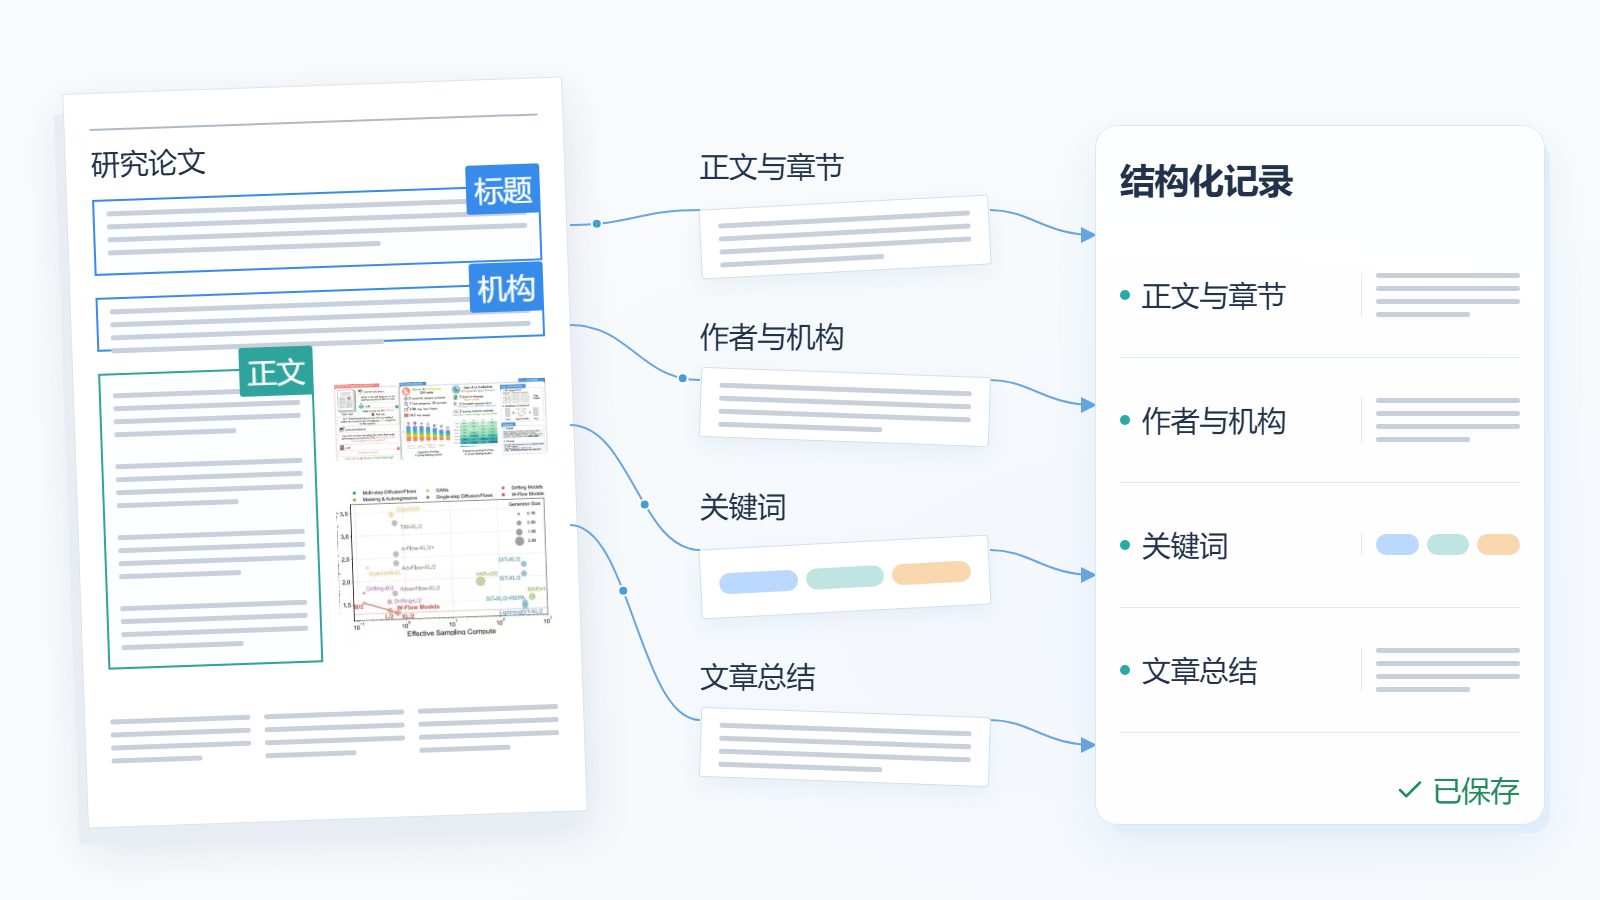
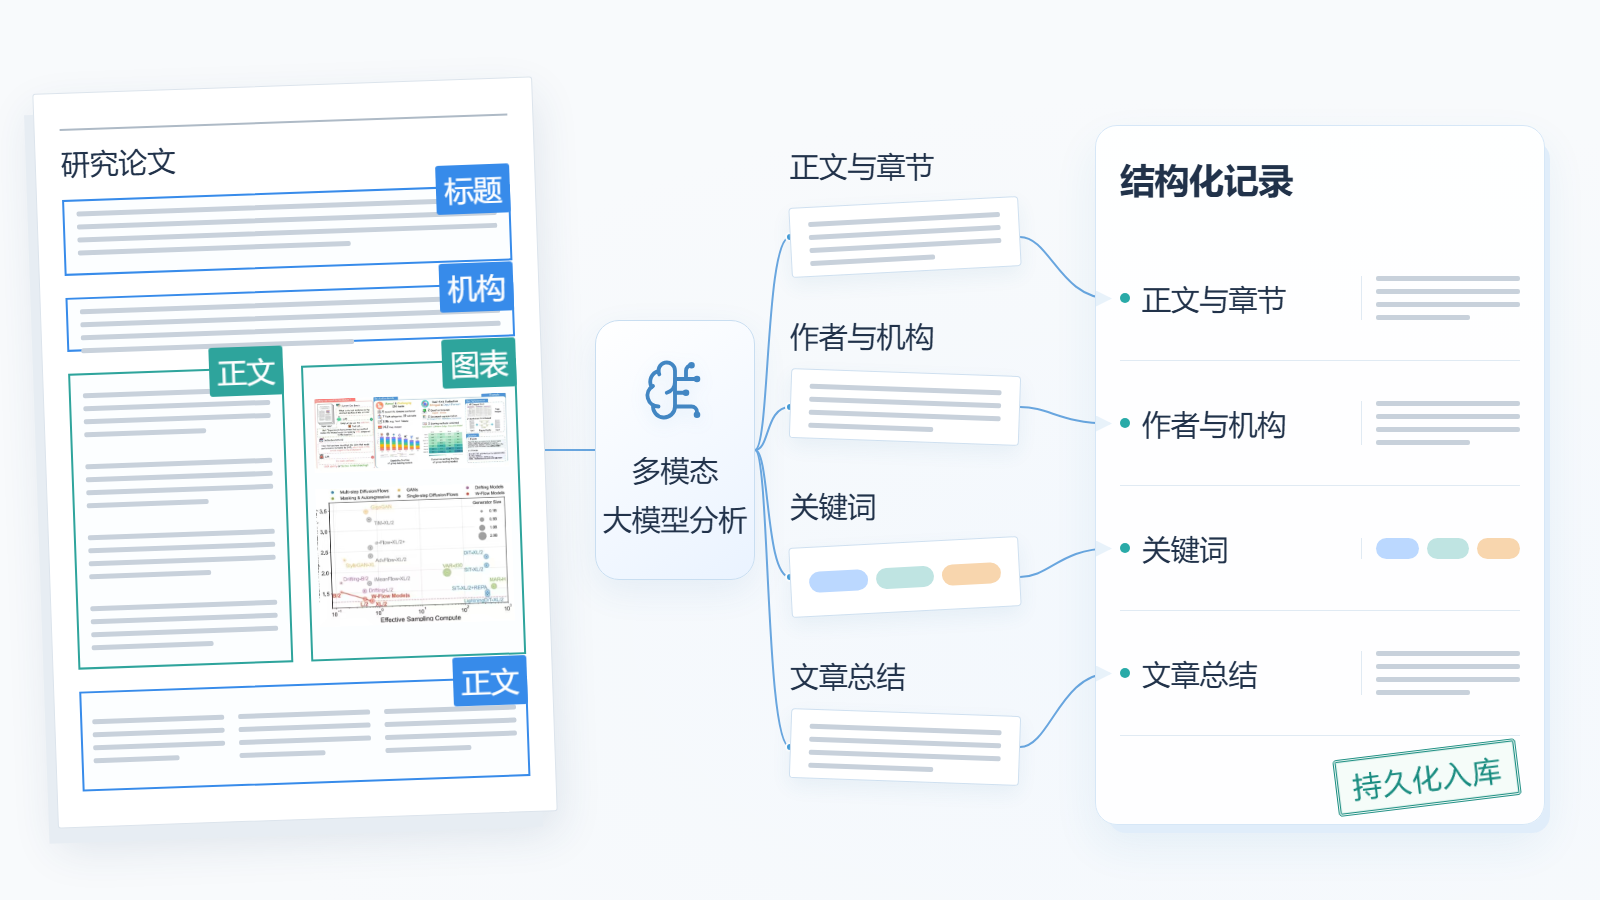
261031

diff --git a/modules/Research-Foundation/pages/PdfVisualExtractionPage/PdfVisualExtractionPage.tsx b/modules/Research-Foundation/pages/PdfVisualExtractionPage/PdfVisualExtractionPage.tsx
@@ -1,6 +1,6 @@
-import { useId } from 'react';
+import { useEffect, useId, useRef, useState, type CSSProperties } from 'react';
+import { BrainCircuit } from 'lucide-react';
 import { Typography, moduleAssetUrl } from '../../../shared/react';
-import { useResearchAnimation } from '../../components/useResearchAnimation';
 import outline from '../../outlines.json';
 import './PdfVisualExtractionPage.css';
 const crops=[
@@ -19,18 +19,32 @@ export function Lines(){return <div className="rf-pve-lines" aria-hidden="true">
 const fields=['正文与章节','作者与机构','关键词','文章总结'];
 /** Local explanatory animation; no OCR or database request is made. */
 export function PdfVisualExtractionPage({onComplete}:{onComplete?:()=>void}){
- const {elapsed,root}=useResearchAnimation(13000,onComplete);
- const phase=elapsed<2600?0:elapsed<5800?1:elapsed<9200?2:3;
- return <section ref={root} className={`rf-page rf-pve rf-pve-video phase-${phase}`} data-phase={phase} aria-label="论文信息识别与结构化保存动画">
+ const [phase,setPhase]=useState(0),locked=useRef(false),timer=useRef<number|undefined>(undefined);
+ const [delays]=useState(()=>{
+  const order=[0,1,2,3,4];
+  for(let i=order.length-1;i>0;i--){const j=Math.floor(Math.random()*(i+1));[order[i],order[j]]=[order[j],order[i]]}
+  return order.map(n=>n*140);
+ });
+ useEffect(()=>()=>window.clearTimeout(timer.current),[]);
+ function advance(){
+  if(locked.current)return;
+  if(phase===5){onComplete?.();return}
+  locked.current=true;
+  setPhase(phase+1);
+  timer.current=window.setTimeout(()=>{locked.current=false},phase===3?1700:850);
+ }
+ const boxStyle=(i:number)=>({'--rf-box-delay':`${delays[i]}ms`} as CSSProperties);
+ return <section className={`rf-page rf-pve rf-pve-video phase-${phase} ${phase>=1?'boxes-on':''}`} data-phase={phase} onClick={event=>{if(event.button===0){event.stopPropagation();advance()}}} aria-label="左键逐步演示论文识别、模型分析和持久化入库">
   <div className="rf-pve-document">
    <Typography variant="body" className="rf-pve-paper-name">研究论文</Typography>
-   <div className="rf-pve-region title"><Lines/><Typography as="span" variant="body">标题</Typography></div>
-   <div className="rf-pve-region author"><Lines/><Typography as="span" variant="body">机构</Typography></div>
-   <div className="rf-pve-paper-columns"><div className="rf-pve-region text"><Lines/><Lines/><Lines/><Lines/><Typography as="span" variant="body">正文</Typography></div><div className="rf-pve-paper-figures rf-pve-region figure"><Figure index={2}/><Figure index={5}/><Typography as="span" variant="body">图表</Typography></div></div>
-   <div className="rf-pve-paper-bottom rf-pve-region"><Lines/><Lines/><Lines/><Typography as="span" variant="body">正文</Typography></div>
+   <div className="rf-pve-region title" style={boxStyle(0)}><Lines/><Typography as="span" variant="body">标题</Typography></div>
+   <div className="rf-pve-region author" style={boxStyle(1)}><Lines/><Typography as="span" variant="body">机构</Typography></div>
+   <div className="rf-pve-paper-columns"><div className="rf-pve-region text" style={boxStyle(2)}><Lines/><Lines/><Lines/><Lines/><Typography as="span" variant="body">正文</Typography></div><div className="rf-pve-paper-figures rf-pve-region figure" style={boxStyle(3)}><Figure index={2}/><Figure index={5}/><Typography as="span" variant="body">图表</Typography></div></div>
+   <div className="rf-pve-paper-bottom rf-pve-region" style={boxStyle(4)}><Lines/><Lines/><Lines/><Typography as="span" variant="body">正文</Typography></div>
   </div>
-  {phase>=1&&<><svg className="rf-pve-streams" viewBox="0 0 1600 900" aria-hidden="true"><defs><marker id="rf-pve-flow-tip" markerWidth="8" markerHeight="8" refX="7" refY="4" orient="auto"><path d="M0 0L8 4L0 8" fill="#69a6df"/></marker></defs>{[237,407,577,747].map((y,i)=><g key={y}><path d={`M570 ${225+i*100} C630 ${225+i*100},640 ${y},700 ${y}`}/>{phase>=2&&<path className="to-record" d={`M990 ${y} C1030 ${y},1055 ${298.5+i*125},1110 ${298.5+i*125}`} markerEnd="url(#rf-pve-flow-tip)"/>}<circle r="5" className="rf-pve-particle"><animateMotion dur={`${1.8+i*.15}s`} repeatCount="indefinite" path={`M570 ${225+i*100} C630 ${225+i*100},640 ${y},700 ${y}`}/></circle></g>)}</svg>
+  {phase>=2&&<><svg className="rf-pve-model-input" viewBox="0 0 1600 900" aria-hidden="true"><path d="M545 450 C565 450,575 450,595 450"/></svg><section className="rf-pve-model-layer"><BrainCircuit size={66} strokeWidth={1.4}/><Typography variant="body" align="center">多模态<br/>大模型分析</Typography></section></>}
+  {phase>=3&&<><svg className="rf-pve-streams" viewBox="0 0 1600 900" aria-hidden="true"><defs><marker id="rf-pve-flow-tip" markerWidth="8" markerHeight="8" refX="7" refY="4" orient="auto"><path d="M0 0L8 4L0 8" fill="#69a6df"/></marker></defs>{[237,407,577,747].map((y,i)=><g key={y}><path d={`M755 450 C770 450,765 ${y},790 ${y}`}/>{phase>=4&&<path className="to-record" d={`M1020 ${y} C1050 ${y},1060 ${298.5+i*125},1110 ${298.5+i*125}`} markerEnd="url(#rf-pve-flow-tip)"/>}<circle r="4" className="rf-pve-particle"><animateMotion dur=".8s" repeatCount="1" fill="freeze" path={`M755 450 C770 450,765 ${y},790 ${y}`}/></circle></g>)}</svg>
   <div className="rf-pve-fragments">{fields.map((field,i)=><div className="rf-pve-fragment" key={field}><Typography variant="body">{field}</Typography><div className="rf-pve-fragment-paper">{i===2?<div className="rf-pve-keywords"><i/><i/><i/></div>:<Lines/>}</div></div>)}</div></>}
-  {phase>=2&&<section className="rf-pve-record" aria-label="结构化记录"><Typography variant="h3">结构化记录</Typography><div className="rf-pve-record-rows">{fields.map((field,i)=><div className="rf-pve-record-row" key={field} style={{animationDelay:`${i*350}ms`}}><i/><Typography variant="body">{field}</Typography><div>{i===2?<div className="rf-pve-keywords"><i/><i/><i/></div>:<Lines/>}</div></div>)}</div>{phase>=3&&<div className="rf-pve-stamp" role="status"><Typography variant="body" tone="inherit">持久化入库</Typography></div>}</section>}
+  {phase>=4&&<section className="rf-pve-record" aria-label="结构化记录"><Typography variant="h3">结构化记录</Typography><div className="rf-pve-record-rows">{fields.map((field,i)=><div className="rf-pve-record-row" key={field} style={{animationDelay:`${i*350}ms`}}><i/><Typography variant="body">{field}</Typography><div>{i===2?<div className="rf-pve-keywords"><i/><i/><i/></div>:<Lines/>}</div></div>)}</div>{phase>=5&&<div className="rf-pve-stamp" role="status"><Typography variant="body" tone="inherit">持久化入库</Typography></div>}</section>}
  </section>;
 }

diff --git a/scripts/browser-offline-vite.ts b/scripts/browser-offline-vite.ts
@@ -18,7 +18,7 @@ export function browserOffline(root:string,library:string):Plugin{
   resolveId(id){if(id.startsWith(prefix))return '\0'+id;},
   load(id){if(!id.startsWith('\0'+prefix))return;const c=courseById.get(id.slice(prefix.length+1))!;
    const file=(f:string)=>JSON.stringify(path.join(library,'modules',c.dir,f));
-   return `import React from 'react';import {createRoot} from 'react-dom/client';import {RuntimePlayer} from ${JSON.stringify(path.join(root,'src/shuku/RuntimePlayer.tsx'))};import * as lesson from ${file(c.ppt.entry)};${c.entry?'import * as guide from '+file(c.entry)+';':''}import ${JSON.stringify(path.join(library,'modules/shared/react/styles.css'))};import ${JSON.stringify(path.join(library,'modules/shared/vendor/mathlive/mathlive-fonts.css'))};export function mount(project){const deck=lesson.deck;for(const page of project.pages){if(!page.nativeId)continue;const scene=deck.scenes.find(s=>s.id===page.nativeId);if(!scene)throw Error('课件已经更新，请刷新后再下载：'+page.nativeId);page.title=scene.title;page.outline={...page.outline,section:scene.section,snippet:lesson.getPptNotes?.(page.nativeId)?.map(n=>n.text).join(${JSON.stringify('\n')})||page.outline?.snippet||''};}globalThis.__SHUKU_OFFLINE_PROJECT__=project;const Guide=${c.entry?'guide['+JSON.stringify(c.entry.replace(/\.[jt]sx?$/,''))+']||Reflect.get(guide,"default")':'null'};createRoot(document.getElementById('root')).render(globalThis.__SHUKU_OFFLINE_EMBED_QUERY__&&Guide?React.createElement(Guide):React.createElement(RuntimePlayer,{project,deck,notes:lesson.getPptNotes,assetId:${JSON.stringify(c.moduleIdentity?.id||c.id)}}));}`;
+   return `import React from 'react';import {createRoot} from 'react-dom/client';import {RuntimePlayer} from ${JSON.stringify(path.join(root,'src/shuku/RuntimePlayer.tsx'))};import * as lesson from ${file(c.ppt.entry)};${c.entry?'import * as guide from '+file(c.entry)+';':''}import ${JSON.stringify(path.join(library,'modules/shared/react/styles.css'))};import ${JSON.stringify(path.join(library,'modules/shared/vendor/mathlive/mathlive-fonts.css'))};export function mount(project){const deck=lesson.deck;const getNotes=Reflect.get(lesson,"getPptNotes");for(const page of project.pages){if(!page.nativeId)continue;const scene=deck.scenes.find(s=>s.id===page.nativeId);if(!scene)throw Error('课件已经更新，请刷新后再下载：'+page.nativeId);page.title=scene.title;page.outline={...page.outline,section:scene.section,snippet:getNotes?.(page.nativeId)?.map(n=>n.text).join(${JSON.stringify('\n')})||page.outline?.snippet||''};}globalThis.__SHUKU_OFFLINE_PROJECT__=project;const Guide=${c.entry?'guide['+JSON.stringify(c.entry.replace(/\.[jt]sx?$/,''))+']||Reflect.get(guide,"default")':'null'};createRoot(document.getElementById('root')).render(globalThis.__SHUKU_OFFLINE_EMBED_QUERY__&&Guide?React.createElement(Guide):React.createElement(RuntimePlayer,{project,deck,notes:getNotes,assetId:${JSON.stringify(c.moduleIdentity?.id||c.id)}}));}`;
   },
   transform(code,id){
    if(id.includes('/modules/')&&/\.[jt]sx?$/.test(id)&&code.includes('<iframe')){

diff --git a/src/creator/browserOffline.ts b/src/creator/browserOffline.ts
@@ -30,7 +30,7 @@ async function resize(bytes:Uint8Array<ArrayBuffer>,mime:string){
 let compiler:Promise<typeof import('esbuild-wasm')>|undefined;
 export async function downloadCourseInBrowser(project:CreatorProject,signal:AbortSignal,progress:Progress){
  const assetBase=(import.meta.env.VITE_ASSET_BASE_URL||location.origin).replace(/\/$/,'');
- const base=assetBase+'/_offline/';
+ const base=new URL(import.meta.env.BASE_URL||'/',location.href).href;
  const get=async(url:string)=>{signal.throwIfAborted();const response=await fetch(url,{signal,credentials:'omit',mode:'cors'});if(!response.ok){const data=await response.json().catch(()=>null);throw Error(data?.error||`资源下载失败（${response.status}）：${url}`);}return new Uint8Array(await response.arrayBuffer());};
  const json=async(url:string)=>{
   const text=new TextDecoder().decode(await get(url));
@@ -40,7 +40,7 @@ export async function downloadCourseInBrowser(project:CreatorProject,signal:Abor
  const course=await json(base+'offline-runtime/courses/'+encodeURIComponent(project.courseId)+'.json');
  if(!course)throw Error('当前课程的离线资源尚未发布，请更新课程资源后再下载。');
  const codes=new Map<string,string>(),css:string[]=[],embedded=new Map<string,string>();
- progress('正在从 OSS 读取当前课件的运行代码…');
+ progress('正在读取当前课件的运行代码…');
  for(const file of course.files){const bytes=await get(base+file);if(course.modules.includes(file))codes.set(file,new TextDecoder().decode(bytes));else if(file.endsWith('.css'))css.push(new TextDecoder().decode(bytes));else embedded.set(file,await dataUrl(bytes,file.endsWith('.woff2')?'font/woff2':file.endsWith('.js')?'text/javascript':'application/octet-stream'));}
  for(const [file,text]of codes){let patched=text;for(const [name,url]of embedded)patched=patched.replaceAll('/'+name,url);codes.set(file,patched);}
  // CSS font URLs are relative to emitted CSS, unlike JS public URLs.
@@ -50,7 +50,7 @@ export async function downloadCourseInBrowser(project:CreatorProject,signal:Abor
  const matches=(path:string)=>hints.some(h=>path===h||path.endsWith('/'+h)||pathBase(path)===h)||patterns.some(([head,tail])=>path.includes(head)&&path.endsWith(tail));
  progress('正在读取当前课件的图片和视频清单…');
  for(const namespace of course.namespaces){
-  const index=await json(base+'namespaces/'+encodeURIComponent(namespace)+'.json');
+  const index=await json(base+'offline-runtime/namespaces/'+encodeURIComponent(namespace)+'.json');
   const formats:Record<string,string>=index.formats||{};
   const aliases=new Map<string,string[]>();for(const [source,target] of Object.entries(formats)){if(!aliases.has(target))aliases.set(target,[]);aliases.get(target)!.push(source);}
   const selected=index.files.filter((f:any)=>!formats[f.path]&&(matches(f.path)||(aliases.get(f.path)||[]).some(matches)||(f.path.startsWith('scenedeck-thumbnails/')&&project.pages.some(p=>f.path.replace(/\.(png|jpe?g|webp)$/i,'').endsWith('/'+(p.nativeId||p.id))))));

diff --git a/modules/Research-Foundation/pages/PdfVisualExtractionPage/PdfVisualExtractionPage.css b/modules/Research-Foundation/pages/PdfVisualExtractionPage/PdfVisualExtractionPage.css
@@ -20,3 +20,8 @@
 .rf-pve-record>h3{height:50px}.rf-pve-stamp{position:absolute;right:25px;bottom:18px;padding:1px 14px;border:3px double #198c80;border-radius:4px;color:#198c80;background:#f3fcf8d9;letter-spacing:.08em;transform:rotate(-7deg);transform-origin:center;animation:rf-pve-stamp-hit .65s cubic-bezier(.2,.7,.2,1) both;box-shadow:0 0 0 1px #198c8020 inset}.rf-pve-stamp::after{content:'';position:absolute;inset:-7px;border:1px solid #198c8060;border-radius:6px;animation:rf-pve-stamp-ripple .7s .25s ease-out both;pointer-events:none}
 @keyframes rf-pve-stamp-hit{0%{opacity:0;transform:translate(12px,-45px) scale(2.4) rotate(-15deg);filter:blur(5px)}55%{opacity:1;transform:scale(.94) rotate(-7deg);filter:blur(0)}75%{transform:scale(1.04) rotate(-7deg)}100%{opacity:1;transform:scale(1) rotate(-7deg);filter:blur(0)}}@keyframes rf-pve-stamp-ripple{from{opacity:.65;transform:scale(.95)}to{opacity:0;transform:scale(1.18)}}
 @media(prefers-reduced-motion:reduce){.rf-pve-stamp{animation:none}.rf-pve-stamp::after{display:none}}
+.rf-pve-video{cursor:default;user-select:none}.rf-pve-document{left:45px}.rf-pve-fragments{left:790px;width:230px}.rf-pve-region{--rf-box-color:#378bea;animation:none}.rf-pve-region.text,.rf-pve-region.figure{--rf-box-color:#2ea49c}
+.rf-pve-video:not(.boxes-on) .rf-pve-region{border-color:transparent;background:transparent}.rf-pve-video:not(.boxes-on) .rf-pve-region>span{opacity:0}.boxes-on .rf-pve-region{animation:rf-pve-detect .18s var(--rf-box-delay) both}.boxes-on .rf-pve-region>span{animation:rf-pve-box .18s var(--rf-box-delay) both}
+.rf-pve-model-input{position:absolute;inset:0;width:1600px;height:900px;pointer-events:none}.rf-pve-model-input path{fill:none;stroke:#69a6df;stroke-width:2;stroke-dasharray:80;animation:rf-pve-model-line .6s ease both}
+.rf-pve-model-layer{position:absolute;left:595px;top:320px;width:160px;height:260px;display:grid;align-content:center;justify-items:center;gap:22px;border:1px solid #c9def1;border-radius:24px;background:linear-gradient(145deg,#fff,#eaf3ff);box-shadow:0 12px 35px #3b78ad16;color:#4286c3;animation:rf-pve-in .6s ease both}.rf-pve-model-layer>svg{filter:drop-shadow(0 4px 8px #438fd322)}
+@keyframes rf-pve-detect{from{border-color:transparent;background:transparent}to{border-color:var(--rf-box-color)}}@keyframes rf-pve-model-line{from{stroke-dashoffset:80}to{stroke-dashoffset:0}}
